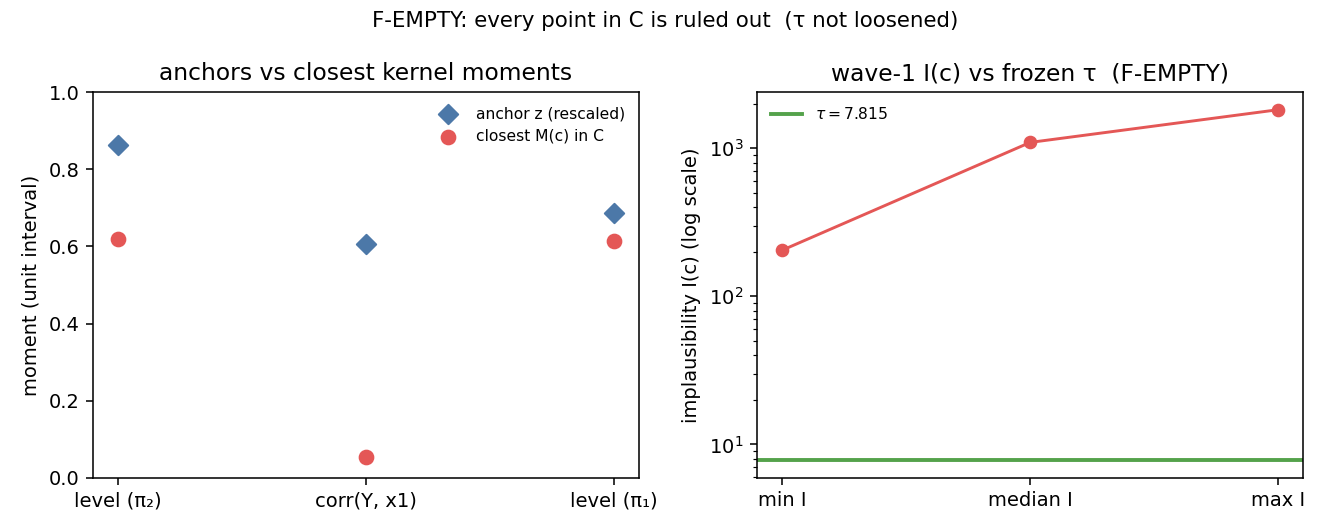
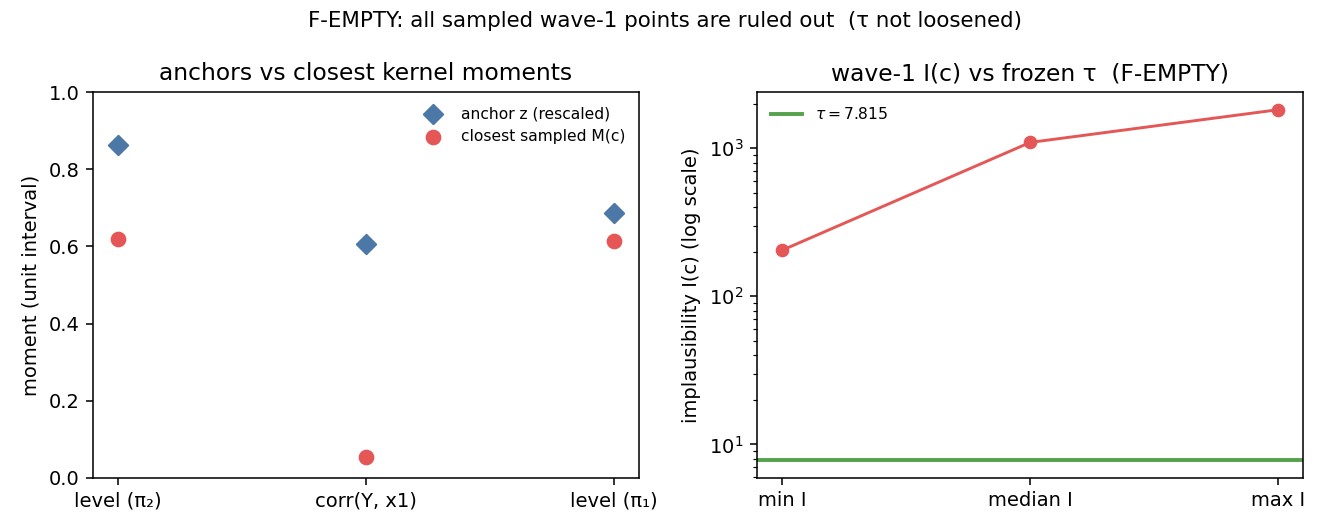
fix(figures): World Bank figure says 'sampled' (a 1,000-point wave is not all of C)
Verifier t_fcddacfd finding 1: the title and legend now read 'all sampled
wave-1 points are ruled out' and 'closest sampled M(c)'. Redrawn from saved
results. No numbers changed.

Changed region(s): [[0.2466, 0.0, 0.7707, 0.0602], [0.3083, 0.1805, 0.4624, 0.2707]]

diff --git a/src/poc_abm/figures.py b/src/poc_abm/figures.py
@@ -84,7 +84,7 @@ def draw_empty(info: dict, path: Path) -> Path:
     ax = axes[0]
     x = np.arange(3)
     ax.scatter(x, z, marker="D", s=50, color="#4C78A8", label="anchor z (rescaled)")
-    ax.scatter(x, m, marker="o", s=50, color="#E45756", label="closest M(c) in C")
+    ax.scatter(x, m, marker="o", s=50, color="#E45756", label="closest sampled M(c)")
     ax.set_xticks(x, names)
     ax.set_ylim(0, 1)
     ax.set_ylabel("moment (unit interval)")
@@ -101,7 +101,7 @@ def draw_empty(info: dict, path: Path) -> Path:
     ax.set_title("wave-1 I(c) vs frozen τ  (F-EMPTY)")
     ax.legend(frameon=False, fontsize=8)
 
-    fig.suptitle("F-EMPTY: every point in C is ruled out  (τ not loosened)", fontsize=11)
+    fig.suptitle("F-EMPTY: all sampled wave-1 points are ruled out  (τ not loosened)", fontsize=11)
     fig.tight_layout()
     fig.savefig(path, dpi=140)
     plt.close(fig)
